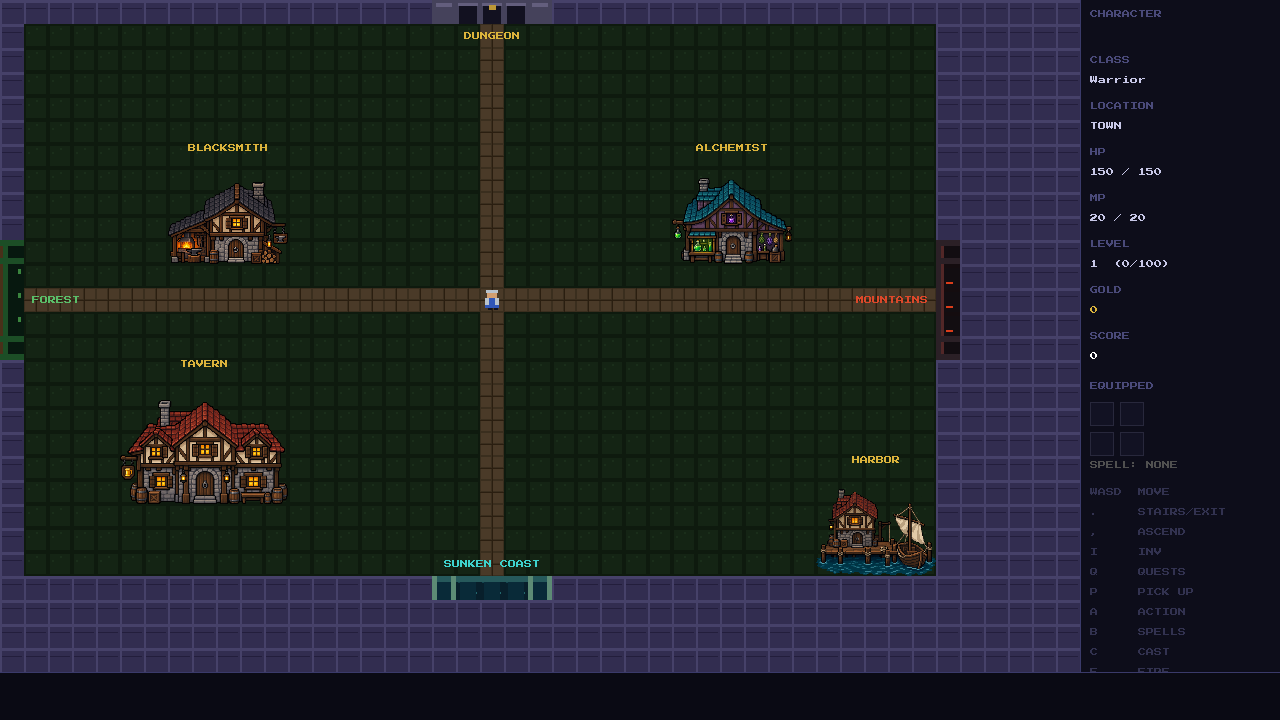
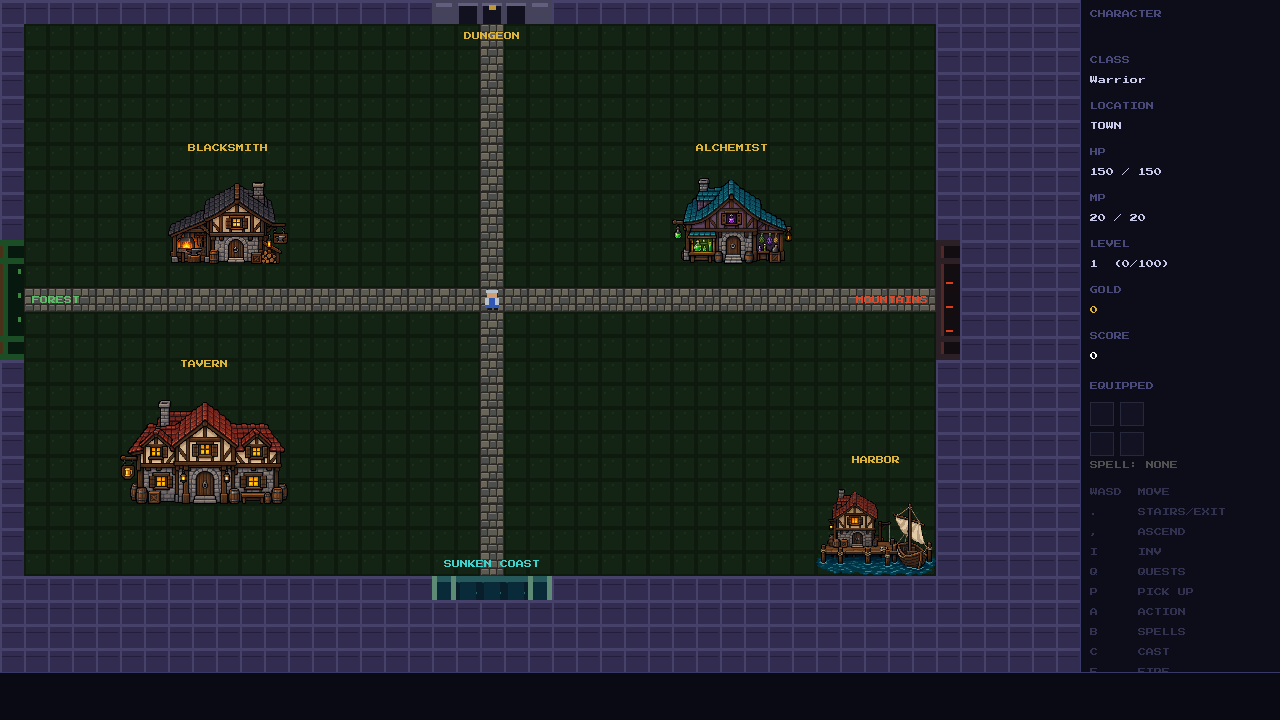
Upgrade town paths with cobblestone detail

Changed region(s): [[0.0, 0.0306, 0.75, 0.7944]]

diff --git a/src/renderer/sprites.c b/src/renderer/sprites.c
@@ -1327,16 +1327,38 @@ void draw_forest_warden(Renderer *r, int tile_x, int tile_y) {
 void draw_town_path(Renderer *r, int tile_x, int tile_y) {
     int x = tile_x * TILE_SIZE;
     int y = tile_y * TILE_SIZE;
-    SDL_Color base   = { 58,  46,  30, 255};
-    SDL_Color stone  = { 74,  58,  40, 255};
-    SDL_Color mortar = { 42,  30,  16, 255};
-    fill_rect(r, x,            y,            TILE_SIZE,     TILE_SIZE,     base);
-    fill_rect(r, x+1,          y+1,          TILE_SIZE/2-2, TILE_SIZE/2-2, stone);
-    fill_rect(r, x+TILE_SIZE/2+1, y+1,       TILE_SIZE/2-2, TILE_SIZE/2-2, stone);
-    fill_rect(r, x+1,          y+TILE_SIZE/2+1, TILE_SIZE/2-2, TILE_SIZE/2-2, stone);
-    fill_rect(r, x+TILE_SIZE/2+1, y+TILE_SIZE/2+1, TILE_SIZE/2-2, TILE_SIZE/2-2, stone);
-    fill_rect(r, x,            y+TILE_SIZE/2, TILE_SIZE,     1,             mortar);
-    fill_rect(r, x+TILE_SIZE/2, y,            1,             TILE_SIZE,     mortar);
+    SDL_Color mortar = {43, 39, 36, 255};
+    SDL_Color stones[3] = {
+        {91, 91, 82, 255},
+        {105, 101, 88, 255},
+        {76, 79, 75, 255}
+    };
+    SDL_Color highlight = {126, 121, 103, 255};
+    SDL_Color shadow = {58, 57, 54, 255};
+    int narrow_x[3] = {1, 8, 18};
+    int narrow_w[3] = {6, 9, 5};
+    int wide_x[3] = {1, 10, 17};
+    int wide_w[3] = {8, 6, 6};
+
+    fill_rect(r, x, y, TILE_SIZE, TILE_SIZE, mortar);
+    for (int row = 0; row < 3; row++) {
+        int *stone_x = ((tile_x + tile_y + row) % 2 == 0)
+            ? narrow_x : wide_x;
+        int *stone_w = ((tile_x + tile_y + row) % 2 == 0)
+            ? narrow_w : wide_w;
+        int stone_y = 1 + row * 8;
+        for (int column = 0; column < 3; column++) {
+            int color = (tile_x * 3 + tile_y * 5 + row + column) % 3;
+            int stone_height = row == 2 ? 6 : 7;
+            fill_rect(r, x + stone_x[column], y + stone_y,
+                stone_w[column], stone_height, stones[color]);
+            fill_rect(r, x + stone_x[column] + 1, y + stone_y,
+                stone_w[column] - 2, 1, highlight);
+            fill_rect(r, x + stone_x[column] + 1,
+                y + stone_y + stone_height - 1,
+                stone_w[column] - 1, 1, shadow);
+        }
+    }
 }
 
 void draw_town_exit(Renderer *r, int tile_x, int tile_y, TownExitStyle style, int segment) {
